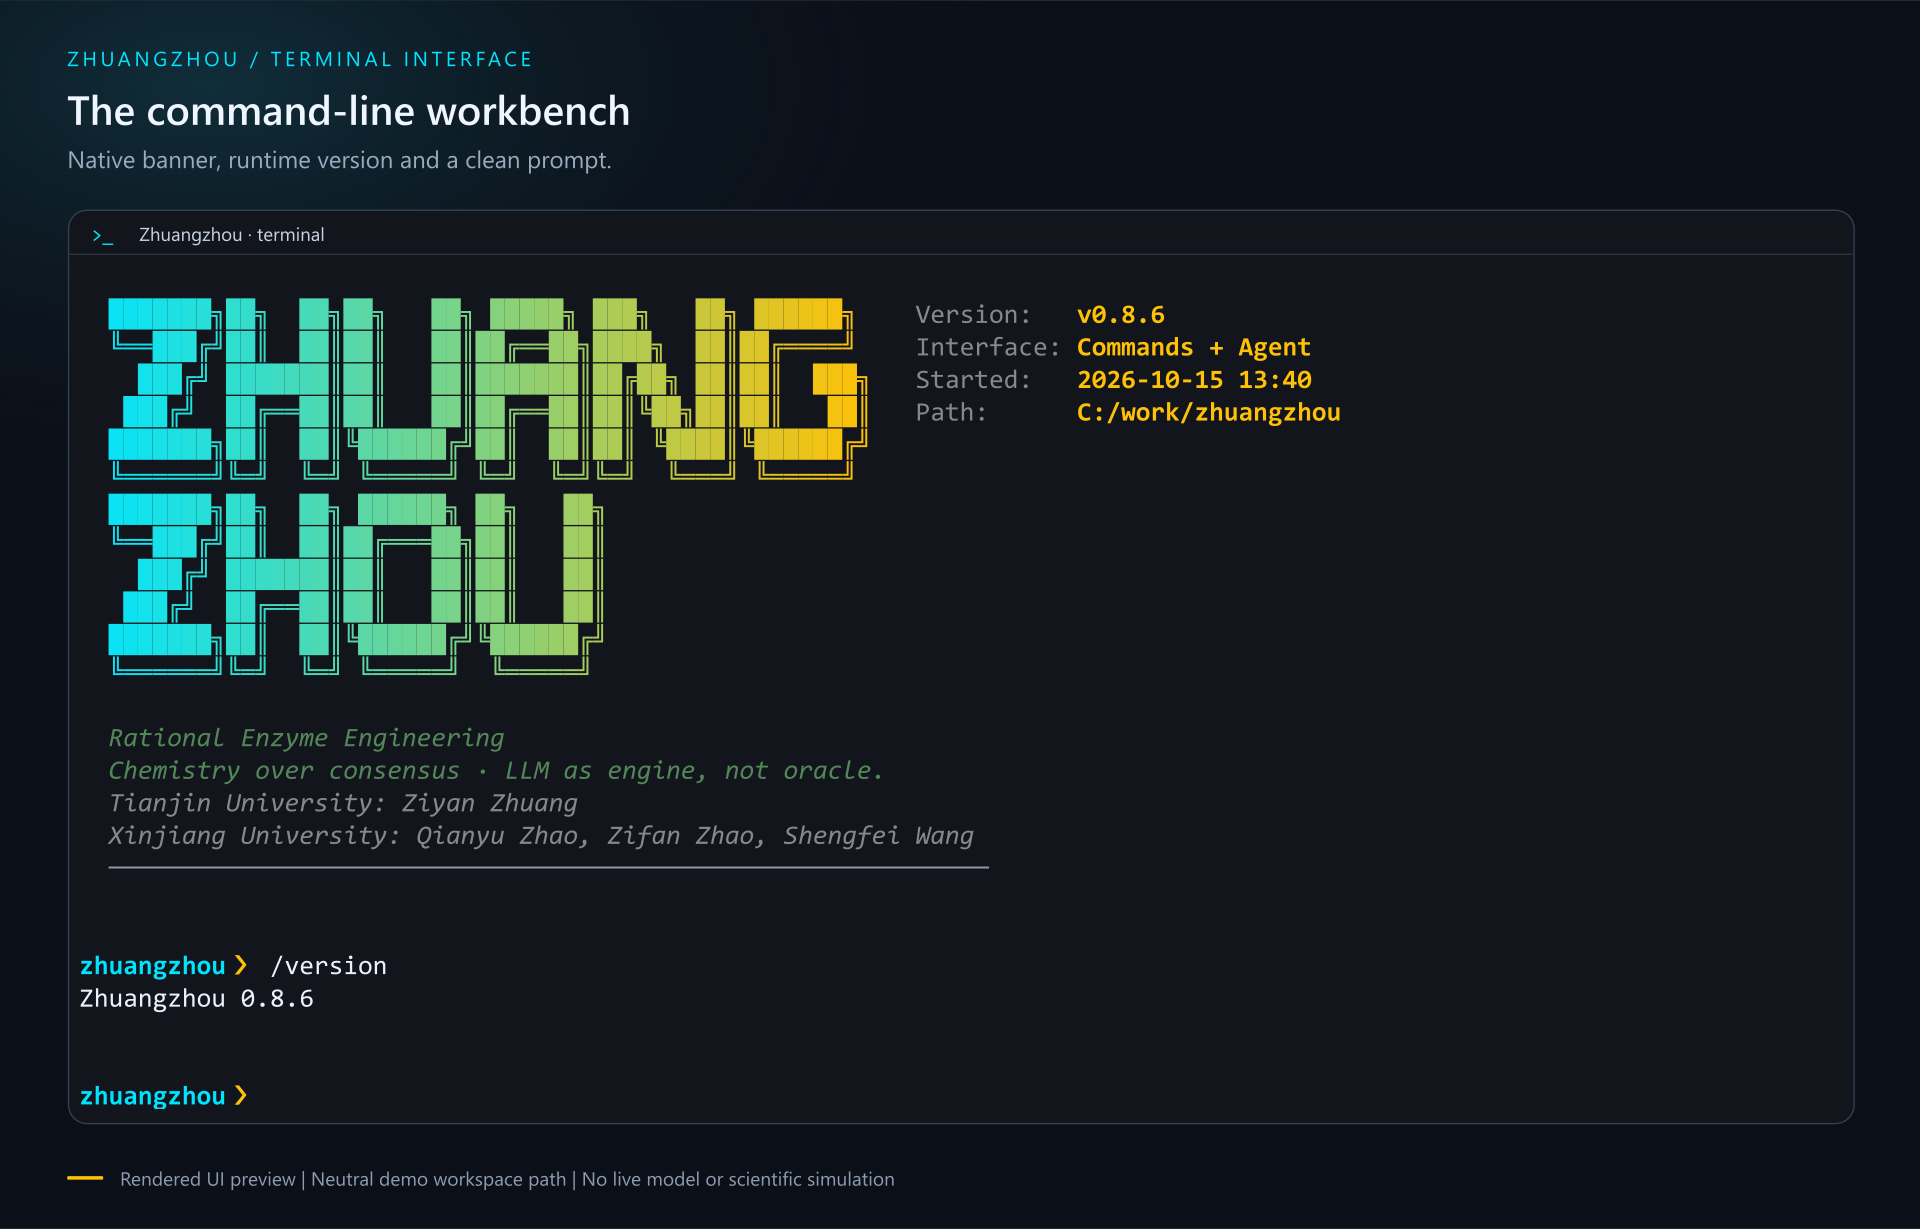
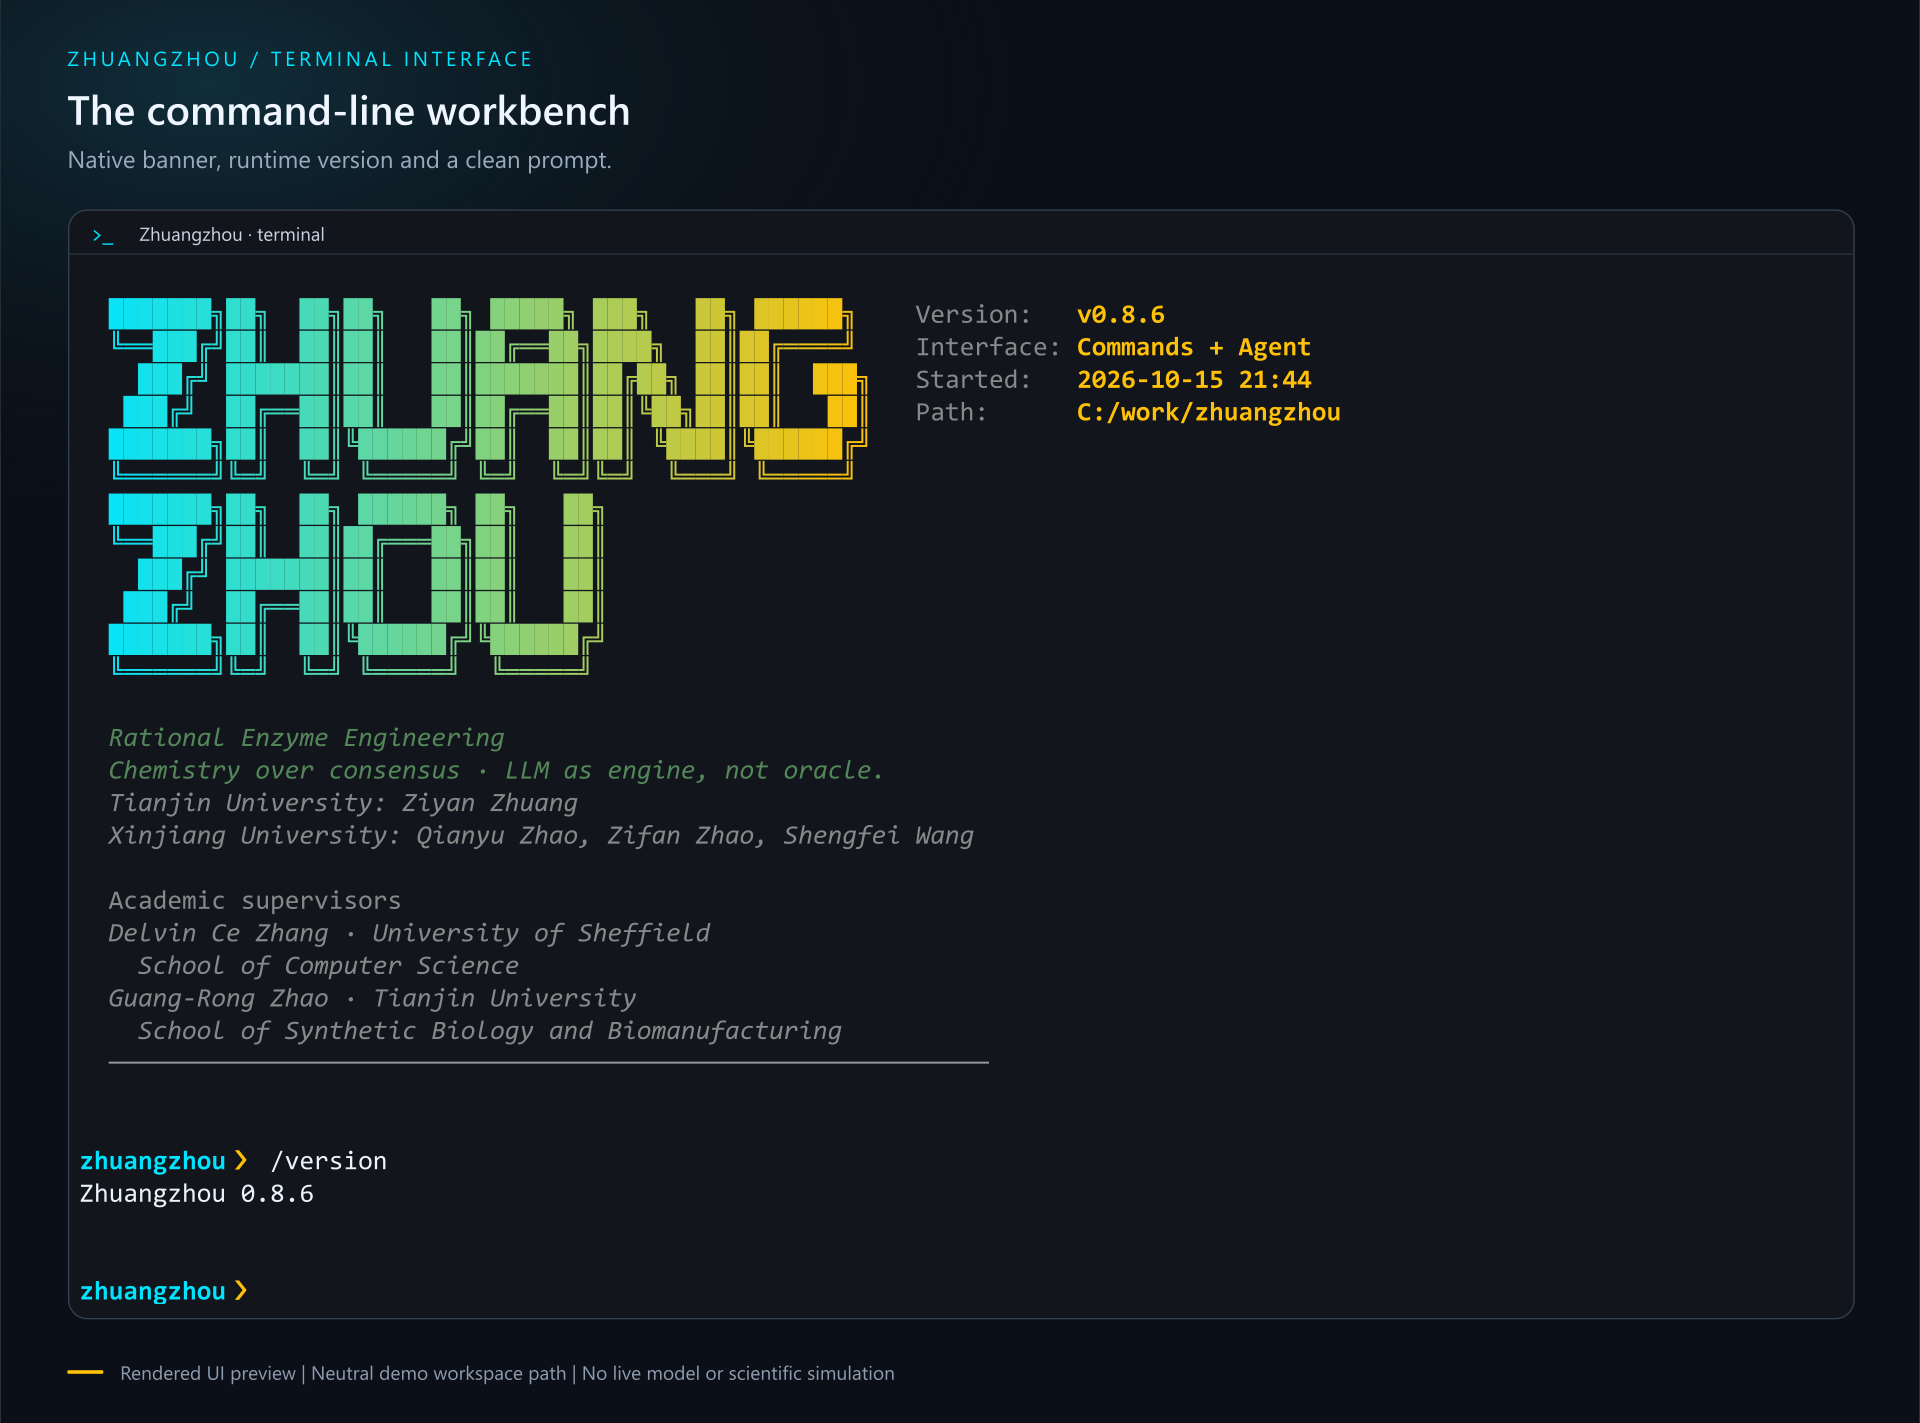
Add academic supervisor credits to README and terminal UI

diff --git a/tests/test_terminal_ui.py b/tests/test_terminal_ui.py
@@ -39,6 +39,21 @@ def test_banner_metadata_never_splits_labels_from_values(display, width):
         assert line.split(label, 1)[1].strip(), f'{width}-column layout orphaned {label}'
 
 
+@pytest.mark.parametrize('width', [60, 80, 100, 120])
+def test_banner_preserves_authors_and_full_supervisor_affiliation(display, width):
+    display.width = width
+    ui.ZZInterface.render_logo()
+    text = display.export_text()
+    assert 'Academic supervisors' in text
+    assert 'Delvin Ce Zhang · University of Sheffield' in text
+    assert 'School of Computer Science' in text
+    assert 'Guang-Rong Zhao · Tianjin University' in text
+    assert 'School of Synthetic Biology and Biomanufacturing' in text
+    normalized = ' '.join(text.split())
+    for name in ('Ziyan Zhuang', 'Qianyu Zhao', 'Zifan Zhao', 'Shengfei Wang'):
+        assert name in normalized
+
+
 @pytest.mark.parametrize('exception,expected', [(ValueError, '✗'), (KeyboardInterrupt, '◇')])
 def test_monitor_exception_never_displays_success(display, exception, expected):
     monitor = ui.ZZStatus()

diff --git a/ui/core.py b/ui/core.py
@@ -811,6 +811,13 @@ class ZZInterface:
             )
         )
 
+        console.print(Text("\n  Academic supervisors", style=ZZTheme.DIM))
+        for name, university, school in (
+            ("Delvin Ce Zhang", "University of Sheffield", "School of Computer Science"),
+            ("Guang-Rong Zhao", "Tianjin University", "School of Synthetic Biology and Biomanufacturing"),
+        ):
+            console.print(Text(f"  {name} · {university}\n    {school}", style=author_style))
+
         # Thin separator
         console.print(Text("  " + "─" * min(60, max(0, console.width - 2)), style="dim"))
         console.print("")

diff --git a/docs/engineering/EXECUTION_LOG.md b/docs/engineering/EXECUTION_LOG.md
@@ -292,3 +292,26 @@ must be identified separately from deterministic tests and mocks.
   no document overflow at the observed viewport. Preview CSS approximates GitHub.
 - Relevant package/UI regression: **31 passed in 3.18s**. Remote CI and independent
   publication review follow before direct main delivery; no branch is created.
+
+## 2026-10-15 — Academic supervisor attribution
+
+- Added a separate supervisor section to both READMEs and the shared terminal
+  startup banner. The project relationship is supplied by the user; it is not
+  inferred from university staff pages. Existing author credits are preserved.
+- User confirmed **Delvin Ce Zhang**, matching the
+  [Sheffield staff page](https://sheffield.ac.uk/cs/people/academic/delvin-ce-zhang).
+  The Tianjin affiliation uses the school's published English name,
+  [School of Synthetic Biology and Biomanufacturing](https://synbm.tju.edu.cn/xygk/xyjj.htm).
+  **Guang-Rong Zhao** retains the user's spelling. No academic titles or university
+  Logos were added.
+- Four new rendering cases first failed because the supervisor section was
+  absent, then passed after the shared-banner change. Widths 60/80/100/120 retain
+  both full names and school names; existing author-name checks normalize ordinary
+  terminal whitespace. Related UI and wheel-installation checks: **35 passed**.
+- Regenerated the selected terminal SVG/PNG from the real Rich components and
+  visually inspected the production preview and 60-column rendering. The updated
+  PNG is 1920 x 1423. Original `zhuangzhou.png` remains byte-for-byte unchanged.
+  The preview uses a neutral workspace path and makes no model or simulation calls.
+- Full offline suite: **246 passed, 5 skipped, 13 existing warnings in 7.61s**.
+  Critical Ruff, both README reference/anchor/UTF-8 checks, both bundled Python
+  examples and `git diff --check` pass. Publication checks follow separately.

diff --git a/docs/engineering/UI_AUDIT.md b/docs/engineering/UI_AUDIT.md
@@ -137,4 +137,20 @@ python -m pytest -q tests/test_parallel_failures.py -k repeated_saturation --dur
 
 通过 `gh pr checks 2 --json name,state,link` 实际核验。各 job 包含完整离线测试、
 Wheel 安装验证、关键 Ruff 和 CLI smoke。随后提交仅追加验证记录；合并前还需
-针对最终 PR SHA 核验全部检查，不能用上述代码提交的成功代替最终 head 状态。
+  针对最终 PR SHA 核验全部检查，不能用上述代码提交的成功代替最终 head 状态。
+
+## 7. 指导教师署名
+
+启动界面在原作者信息下增加独立的 `Academic supervisors` 区块：
+
+- Delvin Ce Zhang — University of Sheffield / School of Computer Science。
+- Guang-Rong Zhao — Tianjin University / School of Synthetic Biology and Biomanufacturing。
+
+用户确认采用 Sheffield 官网的 Delvin 拼写；指导关系由用户提供。中英文 README
+在项目链接之前分别列出指导教师表格，终端预览同步更新，原插图保持不变。
+没有增加新 Logo、头衔或背书措辞。
+
+实际 Rich 渲染在 60/80/100/120 列均通过新增的署名完整性回归；生产预览和
+60 列预览已目视检查，姓名与完整学院名称没有省略。UI 与 Wheel 相关检查
+35 passed；全套离线检查 246 passed / 5 skipped / 13 existing warnings。
+这次验证没有调用真实模型或科学软件。

diff --git a/README.md b/README.md
@@ -211,6 +211,13 @@ experimental-result ingestion for the next design round. Cross-scale enzyme and
 metabolic optimization remains a development direction; it is not a validated
 general-purpose design service.
 
+## Academic supervisors
+
+| Name | Affiliation |
+| --- | --- |
+| Delvin Ce Zhang | University of Sheffield · School of Computer Science |
+| Guang-Rong Zhao | Tianjin University · School of Synthetic Biology and Biomanufacturing |
+
 ## Project links
 
 [Project page](docs/index.html) · [Wiki](../../wiki) ·

diff --git a/README.zh-CN.md b/README.zh-CN.md
@@ -198,6 +198,13 @@ python -m pytest -q
 扩大集成验证范围，并接入实验结果以支持下一轮设计。酶与代谢网络的跨尺度优化
 仍属于开发方向，目前不能作为已经验证的通用设计服务。
 
+## 指导教师
+
+| 姓名 | 单位 |
+| --- | --- |
+| Delvin Ce Zhang | 谢菲尔德大学 · 计算机学院 |
+| Guang-Rong Zhao | 天津大学 · 合成生物与生物制造学院 |
+
 ## 项目链接
 
 [项目展示页](docs/index.html) · [Wiki](../../wiki) ·
